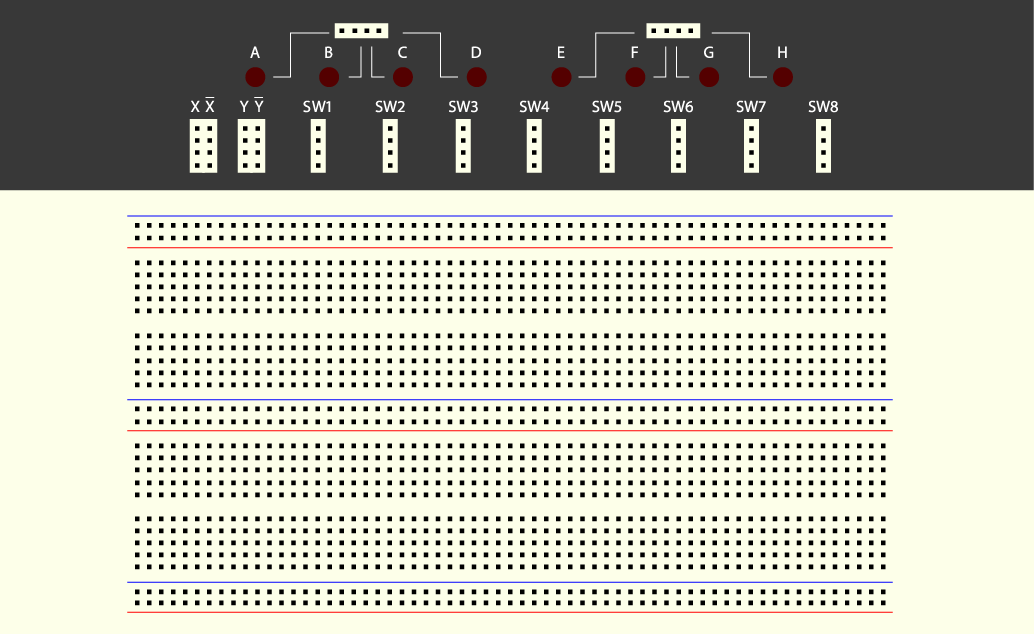
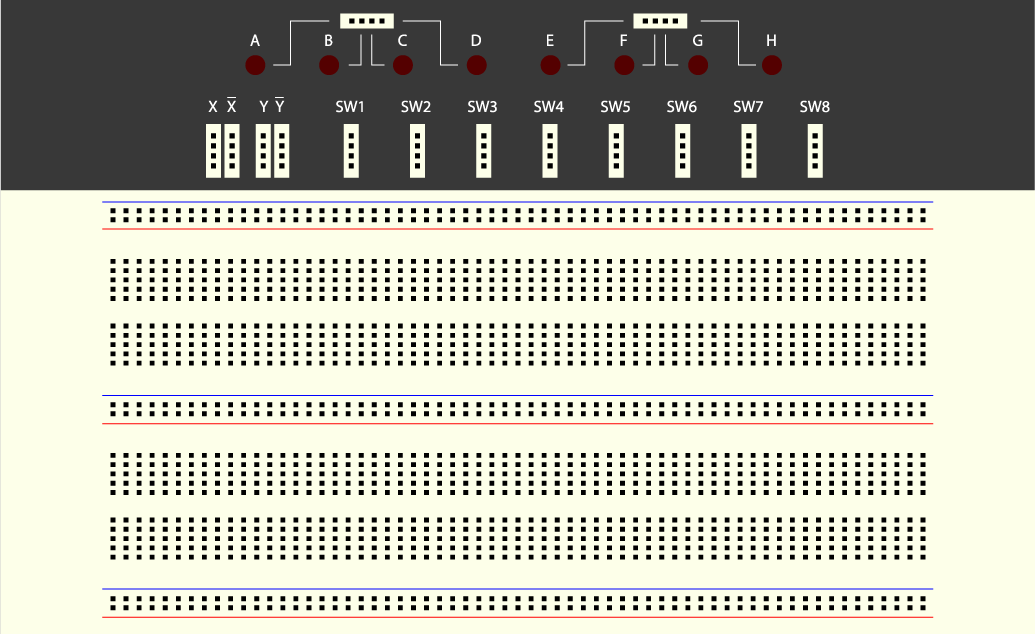
Added necessary classes to make test screen moderately functional.

Changed region(s): [[0.0928, 0.0, 0.8975, 0.989]]

diff --git a/Digital Logic Labs/DLLTestViewController.m b/Digital Logic Labs/DLLTestViewController.m
@@ -1,0 +1,35 @@
+//
+//  DLLTestViewController.m
+//  Digital Logic Labs
+//
+//  Created by Casey Chock on 3/27/13.
+//  Copyright (c) 2013 Pepperdine. All rights reserved.
+//
+
+#import "DLLTestViewController.h"
+
+@interface DLLTestViewController ()
+
+@end
+
+@implementation DLLTestViewController
+
+@synthesize boardModel = _boardModel;
+
+#pragma mark -
+#pragma mark initialization methods
+- (void)viewDidLoad
+{
+    [super viewDidLoad];
+	// Do any additional setup after loading the view.
+}
+
+#pragma mark -
+#pragma mark MISC
+- (void)didReceiveMemoryWarning
+{
+    [super didReceiveMemoryWarning];
+    // Dispose of any resources that can be recreated.
+}
+
+@end

diff --git a/Digital Logic Labs/DLLSevenSegmentView.m b/Digital Logic Labs/DLLSevenSegmentView.m
@@ -1,0 +1,31 @@
+//
+//  DLLSevenSegmentView.m
+//  Digital Logic Labs
+//
+//  Created by Casey Chock on 3/27/13.
+//  Copyright (c) 2013 Pepperdine. All rights reserved.
+//
+
+#import "DLLSevenSegmentView.h"
+
+@implementation DLLSevenSegmentView
+
+- (id)initWithFrame:(CGRect)frame
+{
+    self = [super initWithFrame:frame];
+    if (self) {
+        // Initialization code
+    }
+    return self;
+}
+
+/*
+// Only override drawRect: if you perform custom drawing.
+// An empty implementation adversely affects performance during animation.
+- (void)drawRect:(CGRect)rect
+{
+    // Drawing code
+}
+*/
+
+@end

diff --git a/DLLLightView.m b/DLLLightView.m
@@ -1,0 +1,31 @@
+//
+//  DLLLightView.m
+//  Digital Logic Labs
+//
+//  Created by Casey Chock on 3/27/13.
+//  Copyright (c) 2013 Pepperdine. All rights reserved.
+//
+
+#import "DLLLightView.h"
+
+@implementation DLLLightView
+
+- (id)initWithFrame:(CGRect)frame
+{
+    self = [super initWithFrame:frame];
+    if (self) {
+        // Initialization code
+    }
+    return self;
+}
+
+/*
+// Only override drawRect: if you perform custom drawing.
+// An empty implementation adversely affects performance during animation.
+- (void)drawRect:(CGRect)rect
+{
+    // Drawing code
+}
+*/
+
+@end

diff --git a/Digital Logic Labs/DLLSwitch.m b/Digital Logic Labs/DLLSwitch.m
@@ -1,0 +1,31 @@
+//
+//  DLLSwitch.m
+//  Digital Logic Labs
+//
+//  Created by Casey Chock on 3/27/13.
+//  Copyright (c) 2013 Pepperdine. All rights reserved.
+//
+
+#import "DLLSwitch.h"
+
+@implementation DLLSwitch
+
+- (id)initWithFrame:(CGRect)frame
+{
+    self = [super initWithFrame:frame];
+    if (self) {
+        // Initialization code
+    }
+    return self;
+}
+
+/*
+// Only override drawRect: if you perform custom drawing.
+// An empty implementation adversely affects performance during animation.
+- (void)drawRect:(CGRect)rect
+{
+    // Drawing code
+}
+*/
+
+@end

diff --git a/Digital Logic Labs/DLLBoardViewController.m b/Digital Logic Labs/DLLBoardViewController.m
@@ -371,6 +371,16 @@ typedef enum{
 }
 
 #pragma mark -
+#pragma mark segue control methods
+- (void)prepareForSegue:(UIStoryboardSegue *)segue sender:(id)sender
+{
+    if([segue.identifier isEqualToString:@"LabToBoardSegue"]){
+        DLLTestViewController *controller = (DLLTestViewController*)segue.destinationViewController;
+        controller.boardModel = self.boardModel;
+    }
+}
+
+#pragma mark -
 #pragma mark MISC
 - (void)didReceiveMemoryWarning
 {

diff --git a/Digital Logic Labs/DLLTestViewController.h b/Digital Logic Labs/DLLTestViewController.h
@@ -1,0 +1,16 @@
+//
+//  DLLTestViewController.h
+//  Digital Logic Labs
+//
+//  Created by Casey Chock on 3/27/13.
+//  Copyright (c) 2013 Pepperdine. All rights reserved.
+//
+
+#import <UIKit/UIKit.h>
+#import "DLLBoard.h"
+
+@interface DLLTestViewController : UIViewController
+
+@property (weak, nonatomic) DLLBoard *boardModel;
+
+@end

diff --git a/Digital Logic Labs/DLLSevenSegmentView.h b/Digital Logic Labs/DLLSevenSegmentView.h
@@ -1,0 +1,13 @@
+//
+//  DLLSevenSegmentView.h
+//  Digital Logic Labs
+//
+//  Created by Casey Chock on 3/27/13.
+//  Copyright (c) 2013 Pepperdine. All rights reserved.
+//
+
+#import <UIKit/UIKit.h>
+
+@interface DLLSevenSegmentView : UIView
+
+@end

diff --git a/Digital Logic Labs/DLLBoardViewController.h b/Digital Logic Labs/DLLBoardViewController.h
@@ -10,6 +10,7 @@
 #import "DLLDockViewController.h"
 #import "DLLBoard.h"
 #import "DLLAComponentView.h"
+#import "DLLTestViewController.h"
 #import "DLLPoint.h"
 
 @interface DLLBoardViewController : UIViewController <DLLDockViewControllerDelegate>

diff --git a/DLLLightView.h b/DLLLightView.h
@@ -1,0 +1,13 @@
+//
+//  DLLLightView.h
+//  Digital Logic Labs
+//
+//  Created by Casey Chock on 3/27/13.
+//  Copyright (c) 2013 Pepperdine. All rights reserved.
+//
+
+#import <UIKit/UIKit.h>
+
+@interface DLLLightView : UIImageView
+
+@end

diff --git a/Digital Logic Labs/DLLSwitch.h b/Digital Logic Labs/DLLSwitch.h
@@ -1,0 +1,13 @@
+//
+//  DLLSwitch.h
+//  Digital Logic Labs
+//
+//  Created by Casey Chock on 3/27/13.
+//  Copyright (c) 2013 Pepperdine. All rights reserved.
+//
+
+#import <UIKit/UIKit.h>
+
+@interface DLLSwitch : UISwitch
+
+@end
